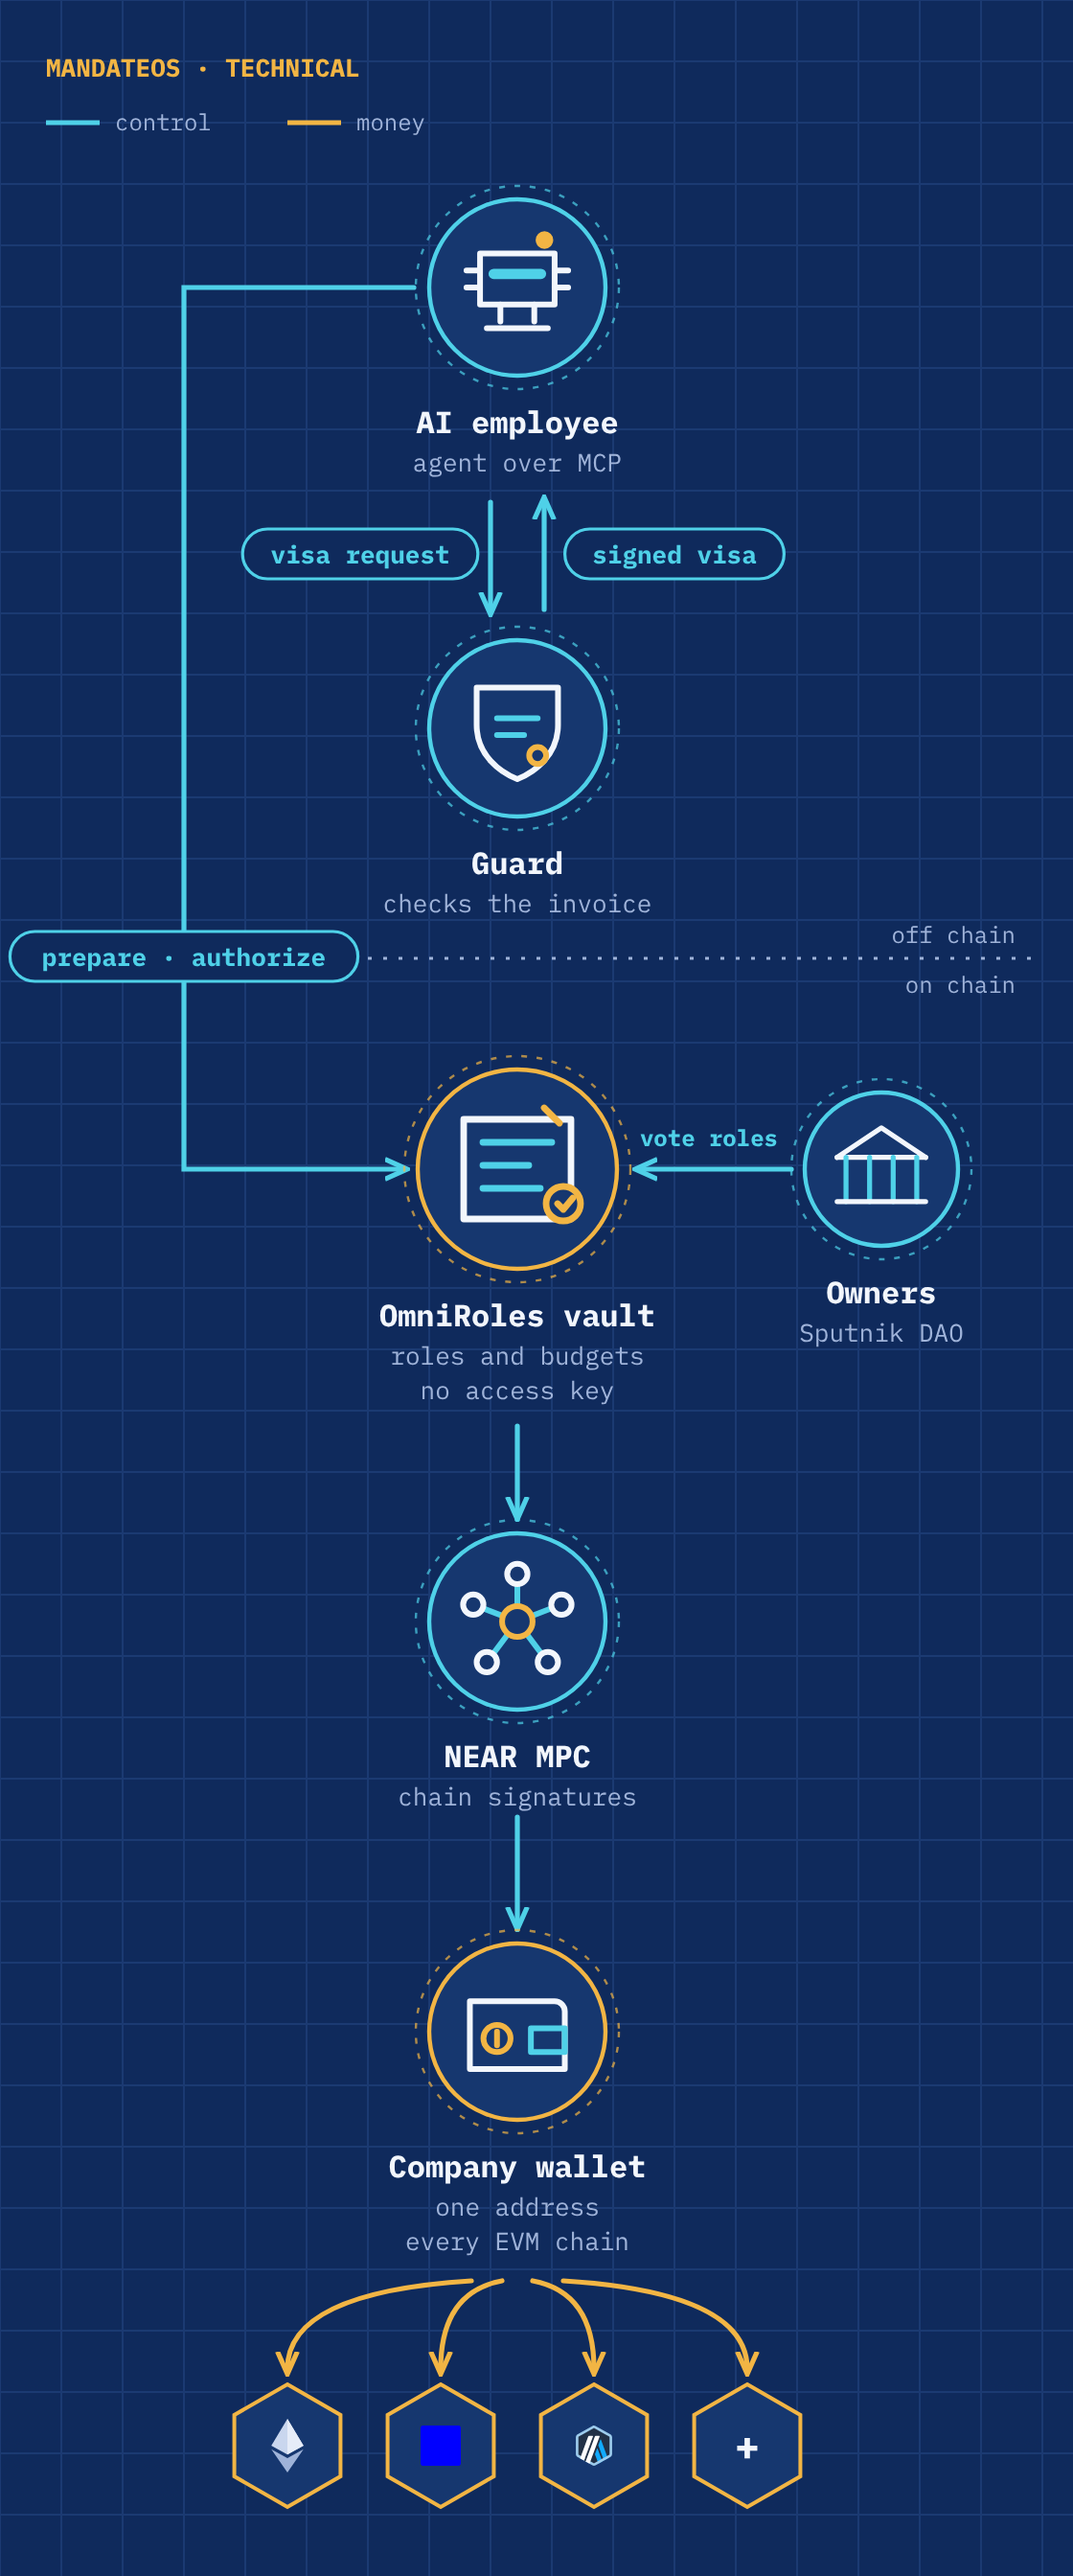
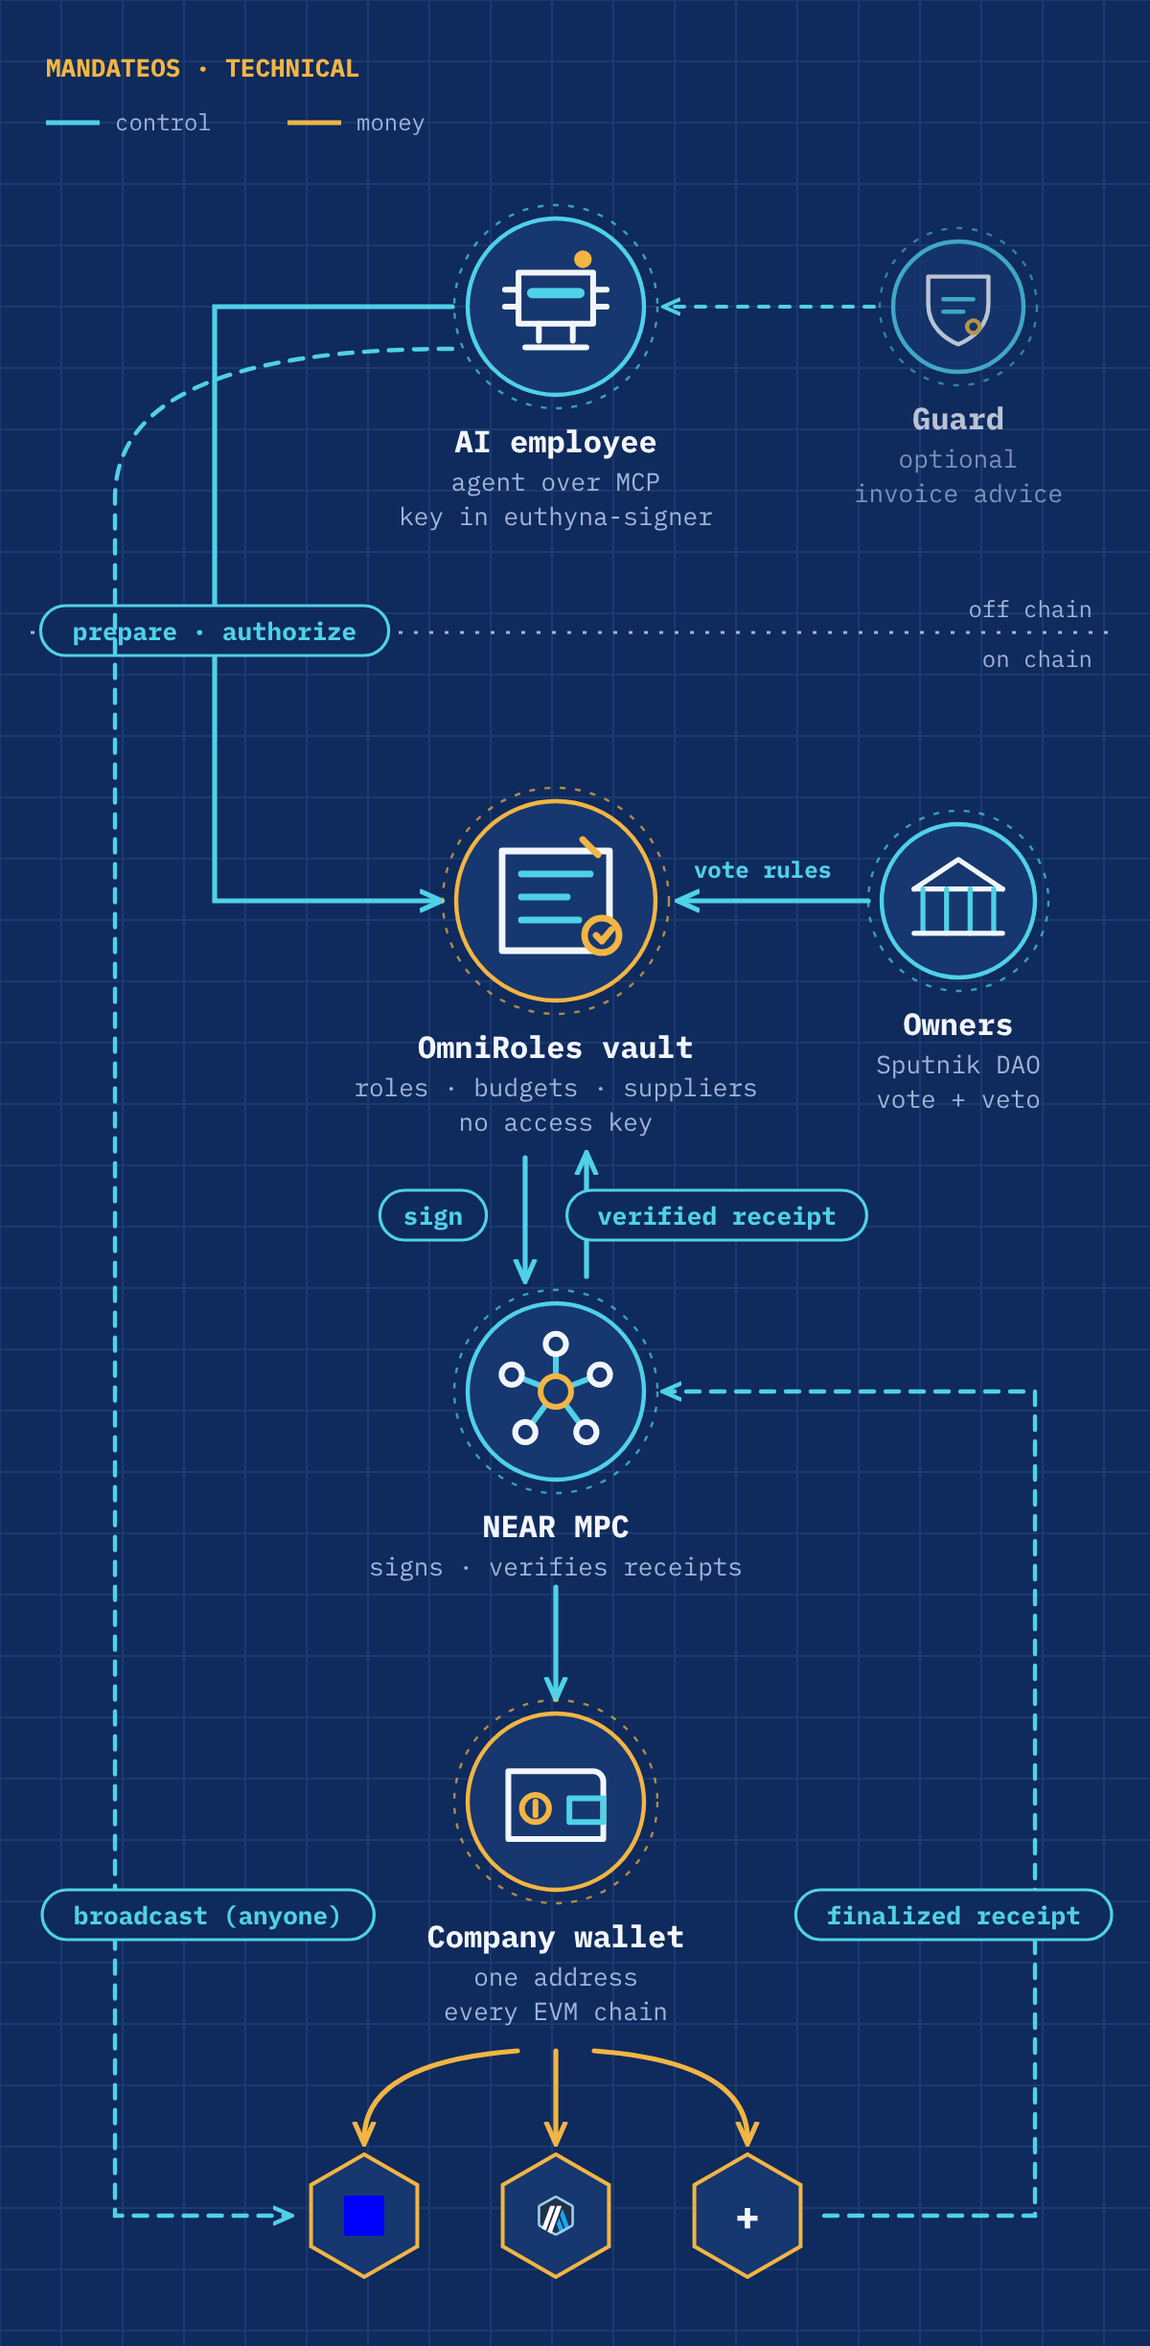
Redraw the technical diagram for direct, backend-free execution
The agent calls the vault directly, the Guard is optional advice, the
vault holds suppliers, NEAR MPC signs and verifies finalized receipts,
and anyone can broadcast.

Claude-Session: https://claude.ai/code/session_01XpqpwNuc2JFdL6FhnKUUha

diff --git a/docs/diagrams/blueprint.py b/docs/diagrams/blueprint.py
@@ -110,33 +110,43 @@ def legend(y, w):
 
 def technical():
     out.clear()
-    cx = 270
+    cx = 290
     text(24, 40, 'MANDATEOS · TECHNICAL', 13, GOLD, 'start', 700)
-    legend(64, 560)
-    node(cx, 150, 46, 'agent', 'AI employee', 'agent over MCP')
-    arrow(f'M{cx-14} 262 V318')
-    arrow(f'M{cx+14} 318 V262')
-    chip(cx - 82, 290, 'visa request')
-    chip(cx + 82, 290, 'signed visa')
-    node(cx, 380, 46, 'guard', 'Guard', 'checks the invoice')
-    out.append(f'<path d="M16 500 H544" stroke="{MUTED}" stroke-width="1.4" stroke-dasharray="2 6"/>')
-    text(530, 492, 'off chain', 12, MUTED, 'end'); text(530, 518, 'on chain', 12, MUTED, 'end')
-    arrow(f'M{cx-54} 150 H96 V610 H{cx-60}')
-    chip(96, 500, 'prepare · authorize')
-    node(cx, 610, 52, 'vault', 'OmniRoles vault', 'roles and budgets|no access key', ring=GOLD)
-    node(460, 610, 40, 'dao', 'Owners', 'Sputnik DAO')
-    arrow(f'M413 610 H{cx+64}')
-    text(370, 598, 'vote roles', 12, CYAN, weight=600)
-    arrow(f'M{cx} 744 V790')
-    node(cx, 846, 46, 'mpc', 'NEAR MPC', 'chain signatures')
-    arrow(f'M{cx} 948 V1004')
-    node(cx, 1060, 46, 'wallet', 'Company wallet', 'one address|every EVM chain', ring=GOLD)
-    xs = [150, 230, 310, 390]
+    legend(64, 600)
+    # Off chain: the agent, and an optional advisory Guard.
+    node(cx, 160, 46, 'agent', 'AI employee', 'agent over MCP|key in euthyna-signer')
+    out.append(f'<g opacity=".75">')
+    node(500, 160, 34, 'guard', 'Guard', 'optional|invoice advice')
+    out.append('</g>')
+    arrow(f'M456 160 H{cx+58}', dash='5 6', w=2)
+    out.append(f'<path d="M16 330 H584" stroke="{MUTED}" stroke-width="1.4" stroke-dasharray="2 6"/>')
+    text(570, 322, 'off chain', 12, MUTED, 'end'); text(570, 348, 'on chain', 12, MUTED, 'end')
+    # Agent acts directly on the vault: no visa, no backend.
+    arrow(f'M{cx-54} 160 H112 V470 H{cx-62}')
+    chip(112, 330, 'prepare · authorize')
+    node(cx, 470, 52, 'vault', 'OmniRoles vault', 'roles · budgets · suppliers|no access key', ring=GOLD)
+    node(500, 470, 40, 'dao', 'Owners', 'Sputnik DAO|vote + veto')
+    arrow(f'M453 470 H{cx+66}')
+    text(398, 458, 'vote rules', 12, CYAN, weight=600)
+    # Vault asks MPC to sign; MPC sends back verified receipts.
+    arrow(f'M{cx-16} 604 V666')
+    arrow(f'M{cx+16} 666 V604')
+    chip(cx - 64, 635, 'sign')
+    chip(cx + 84, 635, 'verified receipt')
+    node(cx, 726, 46, 'mpc', 'NEAR MPC', 'signs · verifies receipts')
+    arrow(f'M{cx} 828 V884')
+    node(cx, 940, 46, 'wallet', 'Company wallet', 'one address|every EVM chain', ring=GOLD)
+    xs = [190, 290, 390]
     for x in xs:
-        arrow(f'M{cx + (x-cx)*0.2} 1190 Q{x} 1196 {x} 1236', color=GOLD)
-    for x, n in zip(xs, ['ethereum', 'base', 'arbitrum', None]):
-        chain_hex(x, 1276, n, None if n else '+')
-    return page(560, 1344)
+        arrow(f'M{cx + (x-cx)*0.2} 1070 Q{x} 1076 {x} 1116', color=GOLD)
+    for x, n in zip(xs, ['base', 'arbitrum', None]):
+        chain_hex(x, 1156, n, None if n else '+')
+    # Anyone broadcasts the signed transaction; MPC reads the finalized receipt.
+    arrow(f'M{cx-54} 182 Q60 182 60 260 V1156 H150', dash='7 6', w=2.2)
+    chip(22, 1000, 'broadcast (anyone)', anchor='start')
+    arrow(f'M430 1156 H540 V726 H{cx+58}', dash='7 6', w=2.2)
+    chip(580, 1000, 'finalized receipt', anchor='end')
+    return page(600, 1224)
 
 
 def product():

diff --git a/README.md b/README.md
@@ -32,7 +32,7 @@ a role, by vote, and every change waits out a veto window.
 
 ## Technical architecture
 
-![Technical architecture: off-chain agent, console, API and worker; NEAR contracts (DAO factory, Sputnik DAO, OmniRoles vault, condition engine, shares, registry, MPC); company wallet and target contracts on Base and Ethereum](./docs/diagrams/technical.png)
+![Technical architecture: the agent calls the OmniRoles vault directly (prepare, authorize); the owners vote rules and suppliers through the Sputnik DAO; NEAR MPC signs for the company wallet; anyone broadcasts the signed transaction; NEAR MPC verifies the finalized receipt and the vault settles the budget. The Guard is optional advice.](./docs/diagrams/technical.png)
 
 | Layer | Holds keys that move funds? |
 | --- | --- |
